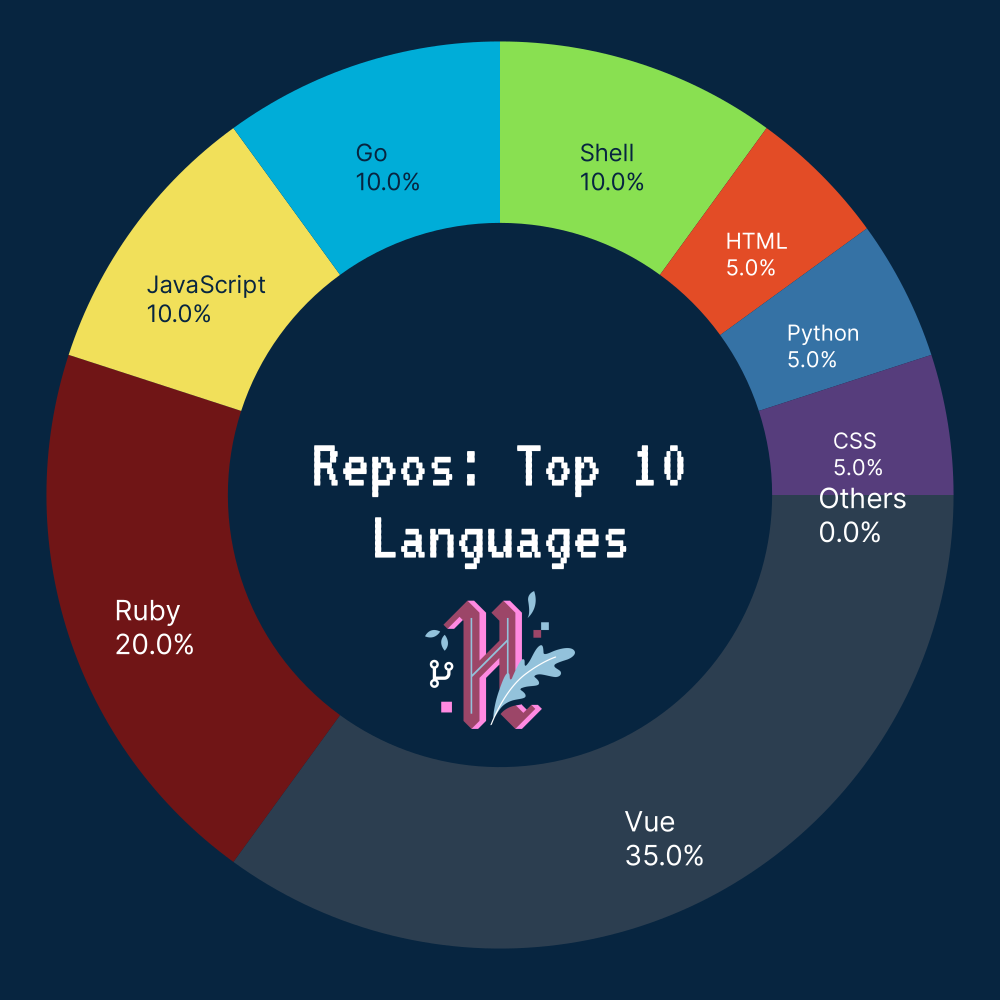
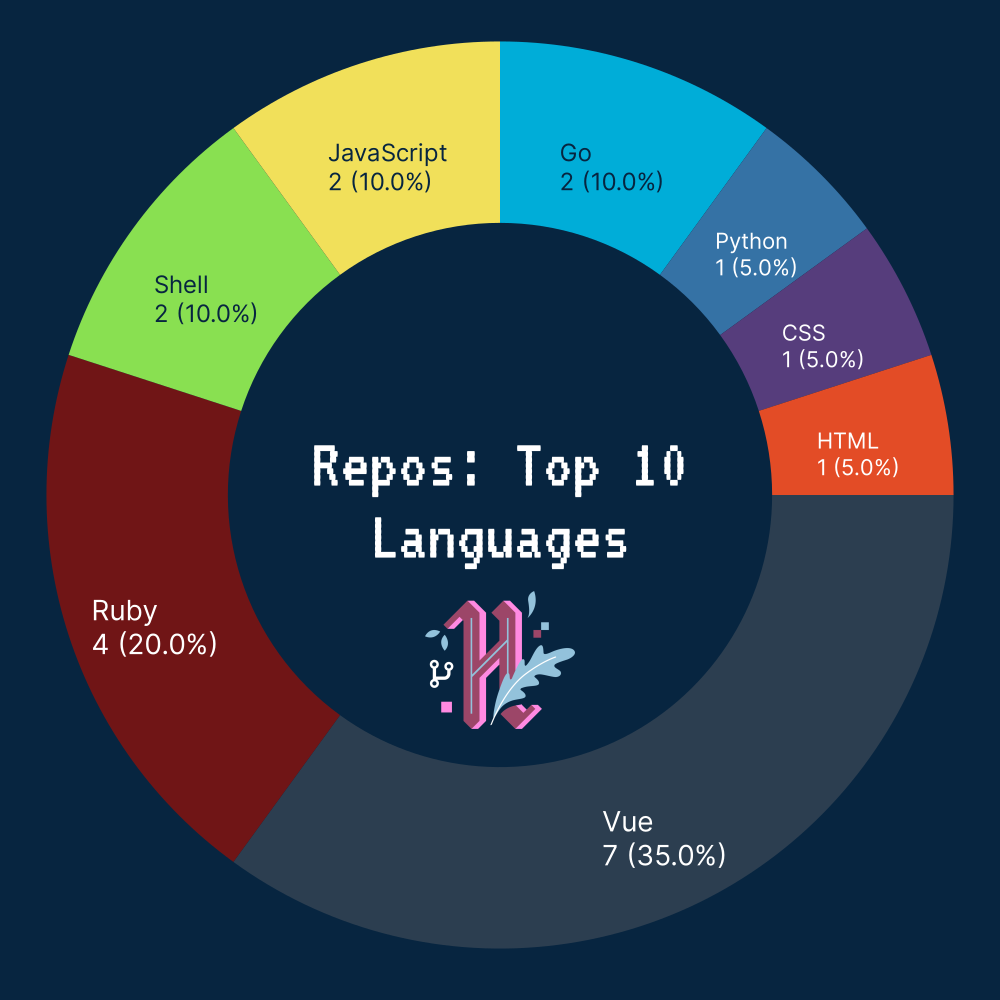
Show counts in language doughnuts

Changed region(s): [[0.062, 0.031, 0.961, 0.558], [0.589, 0.806, 0.744, 0.868], [0.093, 0.589, 0.217, 0.651]]

diff --git a/src/stats/Repos.js b/src/stats/Repos.js
@@ -175,20 +175,22 @@ module.exports = async (db, log) => {
             doughnutTotal += data.count;
             return {
                 y: data.count,
-                indexLabel: `${displayName}\n${percent.toFixed(1)}%`,
+                indexLabel: `${displayName}\n${number.commas(data.count)} (${percent.toFixed(1)}%)`,
                 color: dataColor,
                 indexLabelFontColor: color.isBright(dataColor) ? chart.colors.background : chart.colors.white,
                 indexLabelFontSize: percent > 10 ? 28 : percent > 5 ? 24 : percent > 4 ? 22 : 20,
             };
         }),
     }]);
-    totalReposByLanguageConfig.data[0].dataPoints.push({
-        y: totalRepos - doughnutTotal,
-        indexLabel: `Others\n${((totalRepos - doughnutTotal) / totalRepos * 100).toFixed(1)}%`,
-        color: chart.colors.darkBox,
-        indexLabelFontColor: chart.colors.white,
-        indexLabelFontSize: 28,
-    });
+    if (totalRepos > doughnutTotal) {
+        totalReposByLanguageConfig.data[0].dataPoints.push({
+            y: totalRepos - doughnutTotal,
+            indexLabel: `Others\n${number.commas(totalRepos - doughnutTotal)} (${((totalRepos - doughnutTotal) / totalRepos * 100).toFixed(1)}%)`,
+            color: chart.colors.darkBox,
+            indexLabelFontColor: chart.colors.white,
+            indexLabelFontSize: 28,
+        });
+    }
     totalReposByLanguageConfig.title = {
         text: 'Repos: Top 10 Languages',
         fontColor: chart.colors.text,

diff --git a/src/stats/PRs.js b/src/stats/PRs.js
@@ -372,20 +372,22 @@ module.exports = async (db, log) => {
             doughnutTotal += data.count;
             return {
                 y: data.count,
-                indexLabel: `${displayName}\n${percent.toFixed(1)}%`,
+                indexLabel: `${displayName}\n${number.commas(data.count)} (${percent.toFixed(1)}%)`,
                 color: dataColor,
                 indexLabelFontColor: color.isBright(dataColor) ? chart.colors.background : chart.colors.white,
                 indexLabelFontSize: percent > 10 ? 28 : percent > 5 ? 24 : percent > 4 ? 22 : 20,
             };
         }),
     }]);
-    totalPRsByLanguageConfig.data[0].dataPoints.push({
-        y: totalPRs - doughnutTotal,
-        indexLabel: `Others\n${((totalPRs - doughnutTotal) / totalPRs * 100).toFixed(1)}%`,
-        color: chart.colors.darkBox,
-        indexLabelFontColor: chart.colors.white,
-        indexLabelFontSize: 28,
-    });
+    if (totalPRs > doughnutTotal) {
+        totalPRsByLanguageConfig.data[0].dataPoints.push({
+            y: totalPRs - doughnutTotal,
+            indexLabel: `Others\n${number.commas(totalPRs - doughnutTotal)} (${((totalPRs - doughnutTotal) / totalPRs * 100).toFixed(1)}%)`,
+            color: chart.colors.darkBox,
+            indexLabelFontColor: chart.colors.white,
+            indexLabelFontSize: 28,
+        });
+    }
     totalPRsByLanguageConfig.title = {
         text: 'PRs: Top 10 Languages',
         fontColor: chart.colors.text,
